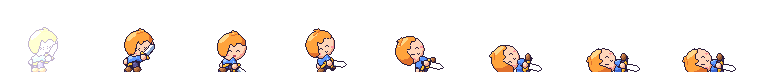
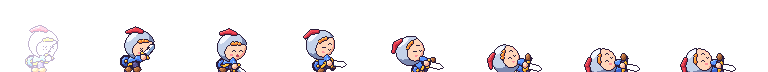
art: 영웅을 귀여운 기사로 교체
- 얼굴이 드러나는 둥근 강철 투구와 위로 솟아 뒤로 넘어가는 빨간 깃털,
  투구 아래 주황 앞머리, 앞손에 굵은 검, 뒷손에 금테 원형 방패(D-095)
- 눈·볼·입을 투구 얼굴 구멍 가운데에 맞춤(왼쪽으로 몰려 보이던 문제)

diff --git a/tools/art/hero.py b/tools/art/hero.py
@@ -1,7 +1,8 @@
-"""SoloHero hero sprite (D-090): a cute chibi swordsman in the Lucky Defense look, native 1x1 pixels, faces right.
+"""SoloHero hero sprite (D-090, D-095): a cute chibi knight in the Lucky Defense look, native 1x1 pixels, faces right.
 
 Style rules: a big round head over a tiny round body, one dark outline colour around every part, two-tone cel
-shading with a small highlight, sparkling eyes, blush, soft scalloped bangs with one cowlick, a chunky toy sword.
+shading with a small highlight, sparkling eyes and blush in the opening of a round steel helmet with a red plume,
+a shoulder guard, a red cape, a chunky sword in the front hand and a round gold-rimmed shield in the back hand.
 
 Run: python tools/art/hero.py [--preview out.png]
 Writes Assets/SoloHero/Art/Hero/knight_{clip}_{frames}.png and removes older knight sheets with other frame counts.
@@ -29,6 +30,9 @@ PANTS = ramp("#3d3769", "#5a5394", "#8078bf")
 BOOTS = ramp("#8c4f2c", "#bb7342", "#e7a868")
 GOLD = ramp("#d68a1c", "#ffc434", "#fff2a4")
 BLADE = ramp("#8aa6cf", "#e2eeff", "#ffffff")
+HELM = ramp("#7a88b0", "#c4d2ea", "#f4f8ff")
+PLUME = ramp("#b8283c", "#ee4454", "#ff8a86")
+SHIELD = ramp("#2e4fb0", "#4c7ae6", "#90b8ff")
 GRIP = ramp("#6b3a28", "#8f5236", "#b8744a")
 EYE = hexc("#2b1d3a")
 EYE_HI = hexc("#ffffff")
@@ -132,6 +136,11 @@ def build(p):
     cv.paint(part("barm", cap(sh_back, be, 2.2, 2.0), TUNIC))
     cv.paint(part("barm2", cap(be, bh, 2.0), TUNIC))
     cv.paint(part("bhand", ell(bh, 2.5, 2.5), SKIN))
+    # Round shield on the back hand: gold rim, blue face, a gold boss in the middle.
+    shield_c = (bh[0] - 0.5, bh[1] + 0.5)
+    cv.paint(part("shield_rim", ell(shield_c, 5.2, 5.8, 0.0, 1.4), GOLD))
+    cv.paint(part("shield", ell(shield_c, 3.9, 4.5, 0.0, 1.6), SHIELD))
+    cv.paint(part("shield_boss", ell(shield_c, 1.3, 1.3), GOLD))
     cv.paint(part("bleg", cap((hip[0] - 2.4, hip[1]), bk, 2.6, 2.4), PANTS))
     cv.paint(part("bleg2", cap(bk, bf, 2.4), PANTS))
     cv.paint(part("bboot", ell((bf[0] + 1.0, bf[1] + 1.4), 3.2, 2.2), BOOTS))
@@ -162,31 +171,33 @@ def build(p):
     # The face stays almost one flat tone: only its far rim falls into shadow.
     cv.paint(part("face", ellipse(HC[0], HC[1], R, R - 1.0, tilt, 3.2), SKIN, thresholds=(0.16, 0.97)))
 
-    def fringe(lx):
-        # Three soft locks across the forehead; the tips dip toward the eyes.
-        phase = (lx - R * 0.1) / (R * 0.36) * math.pi
-        return R * 0.36 - 2.6 * max(0.0, math.cos(phase)) ** 0.8
-
-    def hair_shape(x, y):
+    # Round steel helmet: a dome a little larger than the head, open over the face.
+    def helmet_shape(x, y):
         lx, ly = local(x, y)
-        u = (lx + 0.6) / (R + 1.2)
-        v = (ly - 1.2) / (R + 0.8)
+        u = (lx + 0.4) / (R + 1.4)
+        v = (ly - 0.8) / (R + 0.9)
         if u * u + v * v > 1.0:
             return None
-        # Behind the ear the hair falls lower along a slanted edge, framing the cheek.
-        back = lx < -R * 0.34 + ly * 0.4 and ly > -R * 0.55
-        if ly < fringe(lx) and not back:
+        ou = (lx - R * 0.32) / (R * 0.98)
+        ov = (ly + R * 0.34) / (R * 0.74)
+        if ou * ou + ov * ov < 1.0:
             return None
         z = math.sqrt(max(0.0, 1.0 - u * u - v * v))
         c, s = math.cos(tilt), math.sin(tilt)
-        return _norm(u * c - v * s, u * s + v * c, z * 1.6)
+        return _norm(u * c - v * s, u * s + v * c, z * 1.5)
 
-    cv.paint(part("hair", hair_shape, HAIR))
-    tip = to_world(R * 0.1, R + 3.2)
-    root = to_world(-R * 0.1, R + 0.2)
-    bend = to_world(R * 0.35, R + 1.2)
-    cv.paint(part("cowlick", union_shapes(capsule(root[0], root[1], bend[0], bend[1], 1.3),
-                                          capsule(bend[0], bend[1], tip[0], tip[1], 1.2, 0.8)), HAIR))
+    cv.paint(part("helmet", helmet_shape, HELM))
+    # A small tuft of hair shows under the brim, and a ridge runs over the crown.
+    for lx, ly in ((R * 0.05, R * 0.34), (R * 0.3, R * 0.36), (R * 0.55, R * 0.3)):
+        c0 = to_world(lx, ly)
+        cv.paint(part("bang", ellipse(c0[0], c0[1], R * 0.14, R * 0.11, tilt), HAIR))
+    sway = p["cape"]
+    # Plume: a slim red brush standing up over the crown and sweeping back, swaying with the cape.
+    front = to_world(R * 0.25, R + 1.2)
+    top = to_world(-R * 0.2, R + 3.8)
+    back = to_world(-R * 0.85 - sway * 0.3, R + 2.4 + sway * 0.2)
+    cv.paint(part("plume", union_shapes(capsule(front[0], front[1], top[0], top[1], 1.7, 2.2),
+                                        capsule(top[0], top[1], back[0], back[1], 2.2, 1.3)), PLUME))
 
     # 6. Front arm with the sword.
     sa = rad(p["sword"])
@@ -257,7 +268,8 @@ def draw_face(cv, to_world, p):
     """Big sparkling eyes set low and wide, blush under them, a tiny mouth."""
     skin = set(SKIN)
     eyes = p["eyes"]
-    for ex, rx in ((R * 0.36, 2.1), (-R * 0.2, 1.8)):
+    # Centred in the helmet opening (its centre is R * 0.32 in front of the head centre).
+    for ex, rx in ((R * 0.6, 2.1), (R * 0.06, 1.9)):
         cx, cy = to_world(ex, -R * 0.26)
         if eyes == "open":
             fill_ellipse(cv, cx, cy, rx, 3.4, EYE, skin)
@@ -273,10 +285,10 @@ def draw_face(cv, to_world, p):
         else:  # hurt: > <
             for dx, dy in ((-1.2, 1.2), (0.0, 0.0), (-1.2, -1.2), (1.2, 1.2), (1.2, -1.2)):
                 set_px(cv, cx + dx, cy + dy, EYE)
-    for ex in (R * 0.66, -R * 0.44):
+    for ex in (R * 0.86, -R * 0.14):
         bx, by = to_world(ex, -R * 0.52)
         fill_ellipse(cv, bx, by, 1.8, 0.9, BLUSH, skin)
-    mx, my = to_world(R * 0.1, -R * 0.58)
+    mx, my = to_world(R * 0.34, -R * 0.58)
     if p["mouth"] == "open":
         fill_ellipse(cv, mx, my - 0.3, 1.3, 1.3, MOUTH, skin)
     elif p["mouth"] == "grit":
